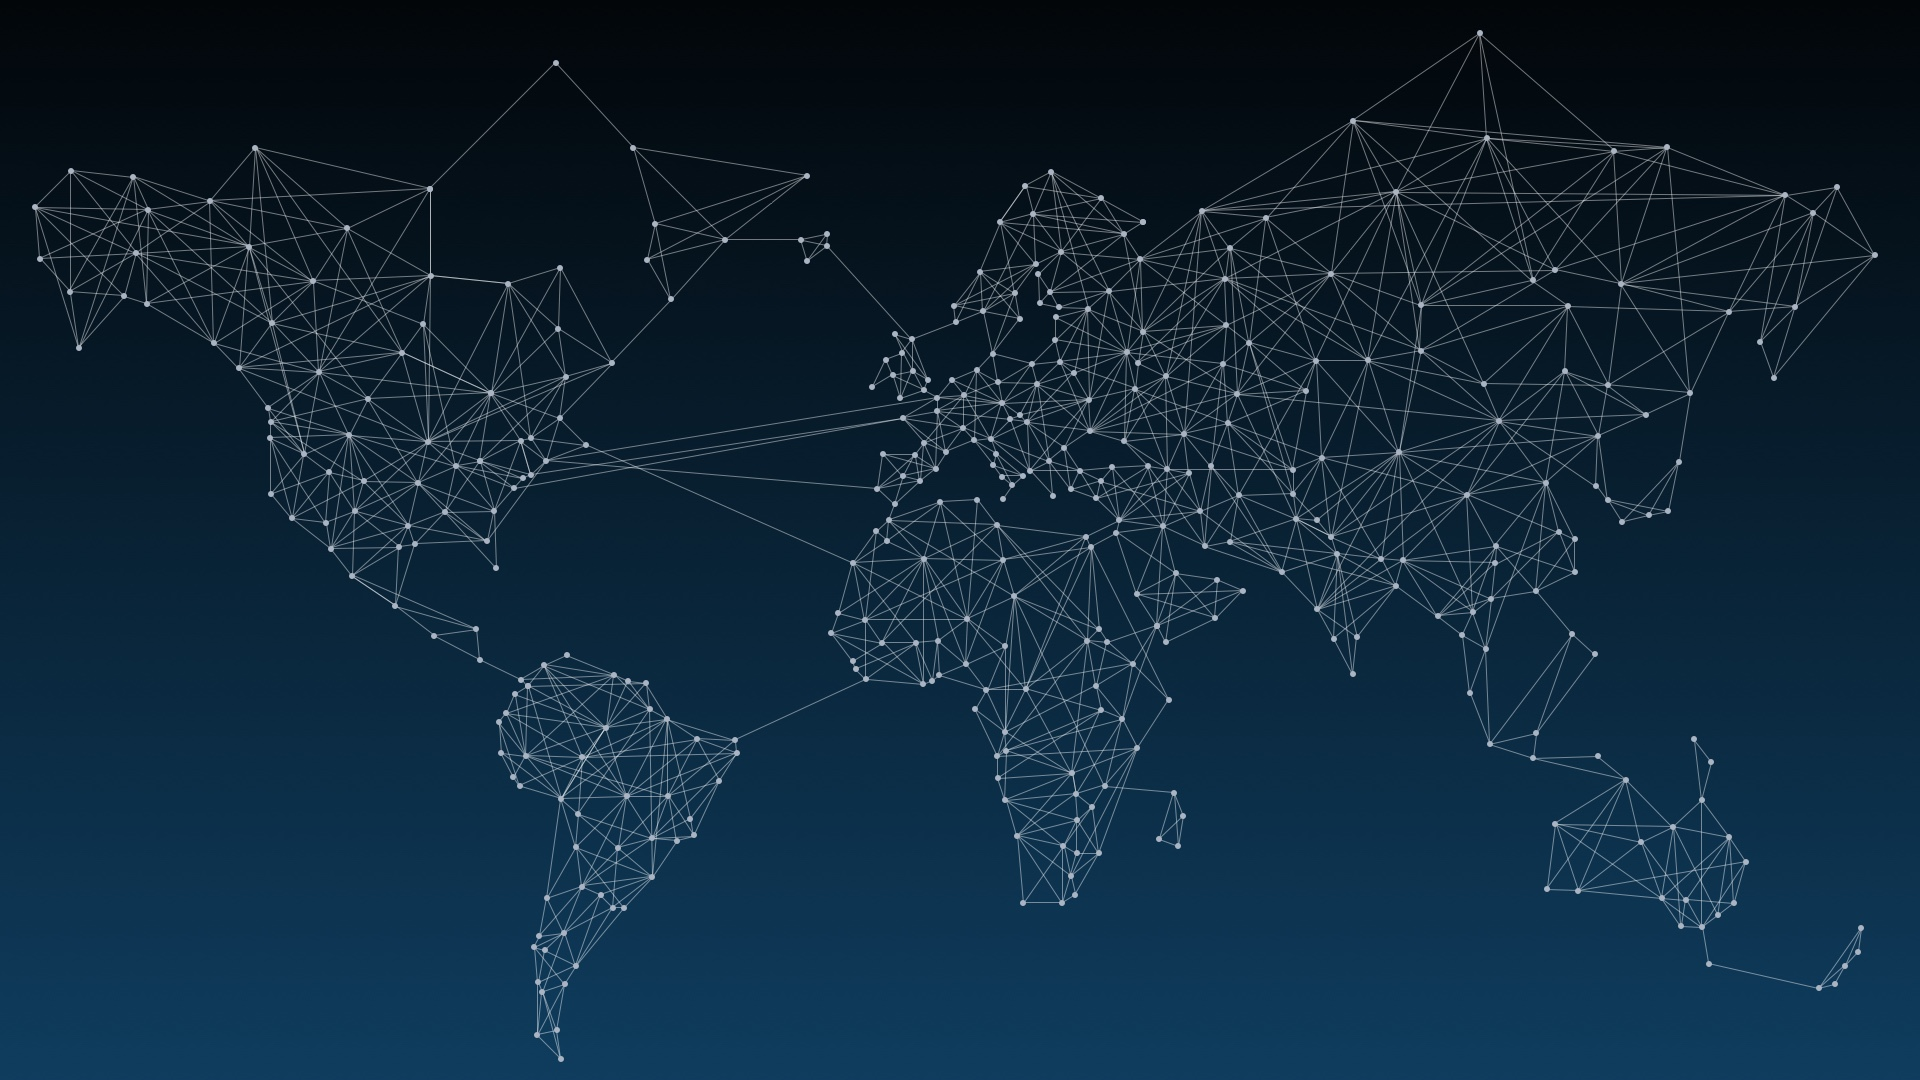
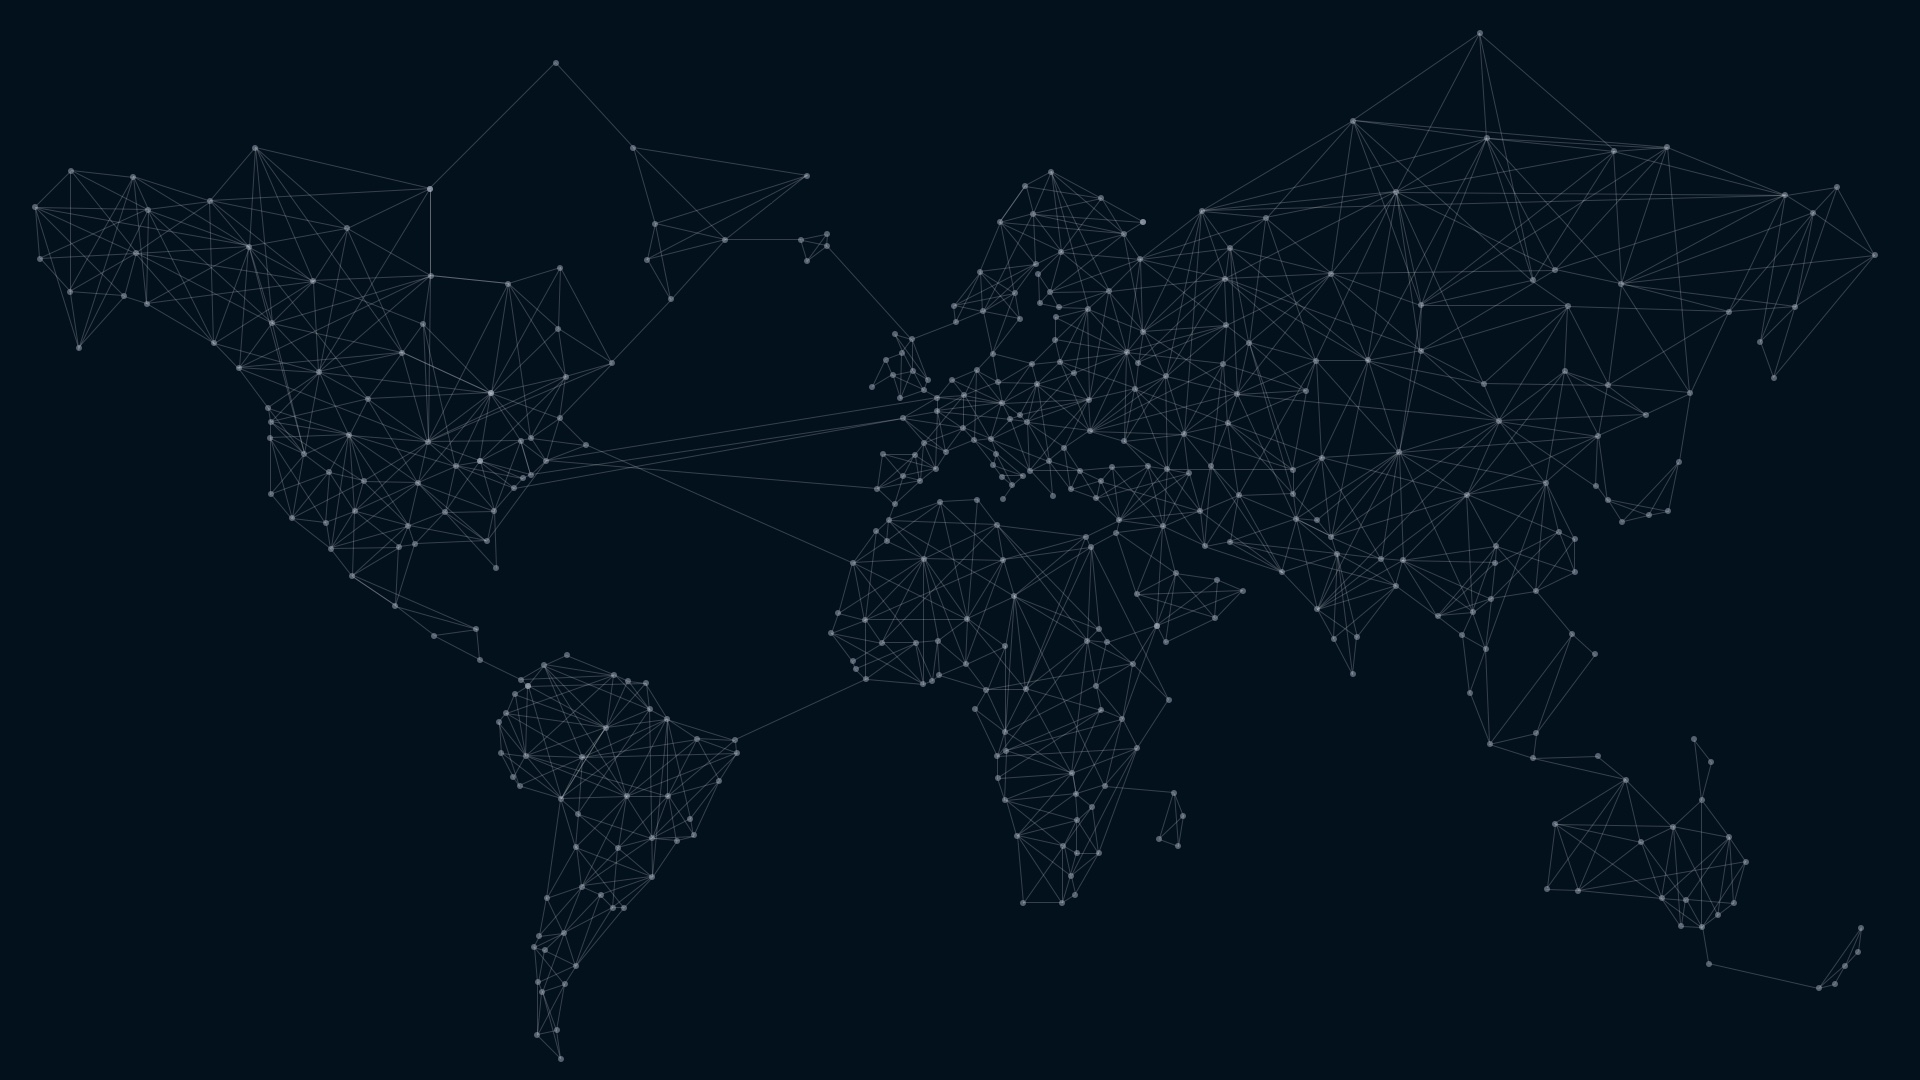
new background, new claim

diff --git a/index.html b/index.html
@@ -98,11 +98,12 @@
     </nav>
 
     <!-- Header-->
-    <header data-background="img/header/background.jpg" class="intro">
+    <header data-background="img/header/telecommunication_world_map.jpg" class="intro">
       <!-- Intro Header-->
       <div class="intro-body">
         <h1>The Perfect Digital Transaction System</h1>
-        <h4 class="tag-line">Limitless transaction throughput with real-time settlement under maximum trust conditions</h4>
+        <h3 class="tag-line">Limitless | Instant | Trusted</h3>
+        <!-- <h3 class="tag-line">Limitless Instant Trusted </h3> -->
         <div>
           <a href="#contact"><button type="button" class="btn btn-border btn-lg">Get in touch</button></a>
       </div>
@@ -132,8 +133,8 @@
               <img src="img/usp/scalability.svg" alt="">
             </div>
             <div class="col-lg-6 col-xs-12 text-container">
-              <h3>Unlimited scalability</h3>
-              <p>Polygravity's transaction system has no ceiling in its global transaction throughput capabilities thanks to the local scope of its consensus algorithm. Its transaction throughput therefore scales linearly with the networked computing power.</p>
+              <h3>Limitless scalability</h3>
+              <p>Polygravity's transaction system has no ceiling to its global transaction throughput capabilities thanks to the local scope of its consensus algorithm. Its transaction throughput scales linearly with the networked computing power.</p>
               <a href="technology" class="btn btn-dark">Learn more</a>
             </div>
             <div class="col-lg-6 image-container desktop-version">
@@ -149,7 +150,7 @@
               <img src="img/usp/real-time.svg" alt="">
             </div>
             <div class="col-lg-6 col-xs-12 text-container">
-              <h3>Real-time settlement</h3>
+              <h3>Instant settlement</h3>
               <p>Polygravity removes redundant overhead from multipurpose transmission layer protocols, such as the TCP and UDP, by introducing its own; the Persistent Socket Datagram Protocol [PSDP]. The PSDP allows for persistent socket connections and therefore increases the amount of parallel connections that can be established. This, in turn, drastically reduces latency and allows for real-time settlement of transactions.</p>
               <a href="technology" class="btn btn-dark">Learn more</a>
             </div>
@@ -160,8 +161,8 @@
               <img src="img/usp/trust.svg" alt="">
             </div>
             <div class="col-lg-6 col-xs-12 text-container">
-              <h3>Maximum trust</h3>
-              <p>Polygravity's network delivers military-grade security standards making it ideal for high threat scenarios (i.e. quantum computing and DDoS attacks). Its consensus algorithm requires pre-transaction agreement by both parties, and transaction data is stored unalterably, such that no party can challenge its validity. Polygravity’s system keeps data visible only to the user and allows for deletion of transaction data; thus, complying with data protection/privacy laws.</p>
+              <h3>Trusted</h3>
+              <p>Polygravity's network delivers military-grade security, making it ideal for high threat scenarios (i.e. quantum computing and DDoS attacks). Its consensus algorithm requires pre-transaction agreement by both parties, and transaction data is stored unalterably, such that no party can challenge its validity. Polygravity’s system keeps data visible only to the user and allows for deletion of transaction data; thus, complying with data protection/privacy laws.</p>
               <a href="technology" class="btn btn-dark">Learn more</a>
             </div>
             <div class="col-lg-6 image-container desktop-version">
@@ -203,7 +204,7 @@
       <div class="row">
         <div class="col-md-5">
           <h3>Contact us</h3>
-          <p>For questions, ideas, suggestions, requests, or just general interest in what it is we are doing - simply fill in your details, drop us a few lines and we will get back to you in no time. We'd love to hear from you.</p>
+          <p> We'd love to hear from you. For questions, ideas, suggestions, requests, or just general interest in what it is we are doing - simply fill in your details, drop us a few lines and we will get back to you in no time.</p>
           <hr>
           <h5><i class="fa fa-map-marker fa-fw fa-lg"></i> Obentrautstrasse 53, 10963 Berlin, Germany
           </h5>

diff --git a/index-chi.html b/index-chi.html
@@ -101,7 +101,7 @@ window.cookieconsent.initialise({
   </nav>
 
   <!-- Header-->
-  <header data-background="img/header/background.jpg" class="intro">
+  <header data-background="img/header/telecommunication_world_map.jpg" class="intro">
     <!-- Intro Header-->
     <div class="intro-body">
       <h1>完美的数字交易系统</h1>

diff --git a/404.html b/404.html
@@ -72,7 +72,7 @@
       </div>
     </nav>
   <!-- Header-->
-  <header data-background="img/header/background.jpg" class="intro intro-fullscreen">
+  <header data-background="img/header/telecommunication_world_map.jpg" class="intro intro-fullscreen">
     <!-- Intro Header-->
     <div class="intro-body">
       <h1>404</h1>

diff --git a/privacy_policy.html b/privacy_policy.html
@@ -71,7 +71,7 @@
     </div>
   </nav>
   <!-- Header-->
-  <header data-background="img/header/background.jpg" class="intro introhalf">
+  <header data-background="img/header/telecommunication_world_map.jpg" class="intro introhalf">
     <!-- Intro Header-->
     <div class="intro-body">
       <h1>Privacy Policy</h1>

diff --git a/imprint.html b/imprint.html
@@ -72,7 +72,7 @@
     </div>
   </nav>
   <!-- Header-->
-  <header data-background="img/header/background.jpg" class="intro introhalf">
+  <header data-background="img/header/telecommunication_world_map.jpg" class="intro introhalf">
     <!-- Intro Header-->
     <div class="intro-body">
       <h1>Imprint</h1>

diff --git a/privacy_policy-chi.html b/privacy_policy-chi.html
@@ -73,7 +73,7 @@
   </nav>
 
   <!-- Header-->
-  <header data-background="img/header/background.jpg" class="intro introhalf">
+  <header data-background="img/header/telecommunication_world_map.jpg" class="intro introhalf">
     <!-- Intro Header-->
     <div class="intro-body">
       <h1>Privacy Policy</h1>

diff --git a/about-chi.html b/about-chi.html
@@ -75,7 +75,7 @@
   </nav>
 
   <!-- Header-->
-  <header data-background="img/header/background.jpg" class="intro introhalf">
+  <header data-background="img/header/telecommunication_world_map.jpg" class="intro introhalf">
     <!-- Intro Header-->
     <div class="intro-body">
       <h1>关于我们</h1>

diff --git a/faq-chi.html b/faq-chi.html
@@ -74,7 +74,7 @@
   </nav>
 
   <!-- Header-->
-  <header data-background="img/header/background.jpg" class="intro introhalf">
+  <header data-background="img/header/telecommunication_world_map.jpg" class="intro introhalf">
     <!-- Intro Header-->
     <div class="intro-body">
       <h1>您问我答</h1>

diff --git a/technology-chi.html b/technology-chi.html
@@ -74,7 +74,7 @@
   </nav>
 
   <!-- Header-->
-  <header data-background="img/header/background.jpg" class="intro introhalf">
+  <header data-background="img/header/telecommunication_world_map.jpg" class="intro introhalf">
     <!-- Intro Header-->
     <div class="intro-body">
       <h1>技术路线</h1>

diff --git a/about.html b/about.html
@@ -74,7 +74,7 @@
     </nav>
 
   <!-- Header-->
-  <header data-background="img/header/background.jpg" class="intro introhalf">
+  <header data-background="img/header/telecommunication_world_map.jpg" class="intro introhalf">
     <!-- Intro Header-->
     <div class="intro-body">
       <h1>About Us</h1>

diff --git a/technology.html b/technology.html
@@ -73,7 +73,7 @@
   </nav>
 
   <!-- Header-->
-  <header data-background="img/header/background.jpg" class="intro introhalf">
+  <header data-background="img/header/telecommunication_world_map.jpg" class="intro introhalf">
     <!-- Intro Header-->
     <div class="intro-body">
       <h1>Technology</h1>

diff --git a/imprint-chi.html b/imprint-chi.html
@@ -75,7 +75,7 @@
   </nav>
 
   <!-- Header-->
-  <header data-background="img/header/background.jpg" class="intro introhalf">
+  <header data-background="img/header/telecommunication_world_map.jpg" class="intro introhalf">
     <!-- Intro Header-->
     <div class="intro-body">
       <h1>Imprint</h1>
